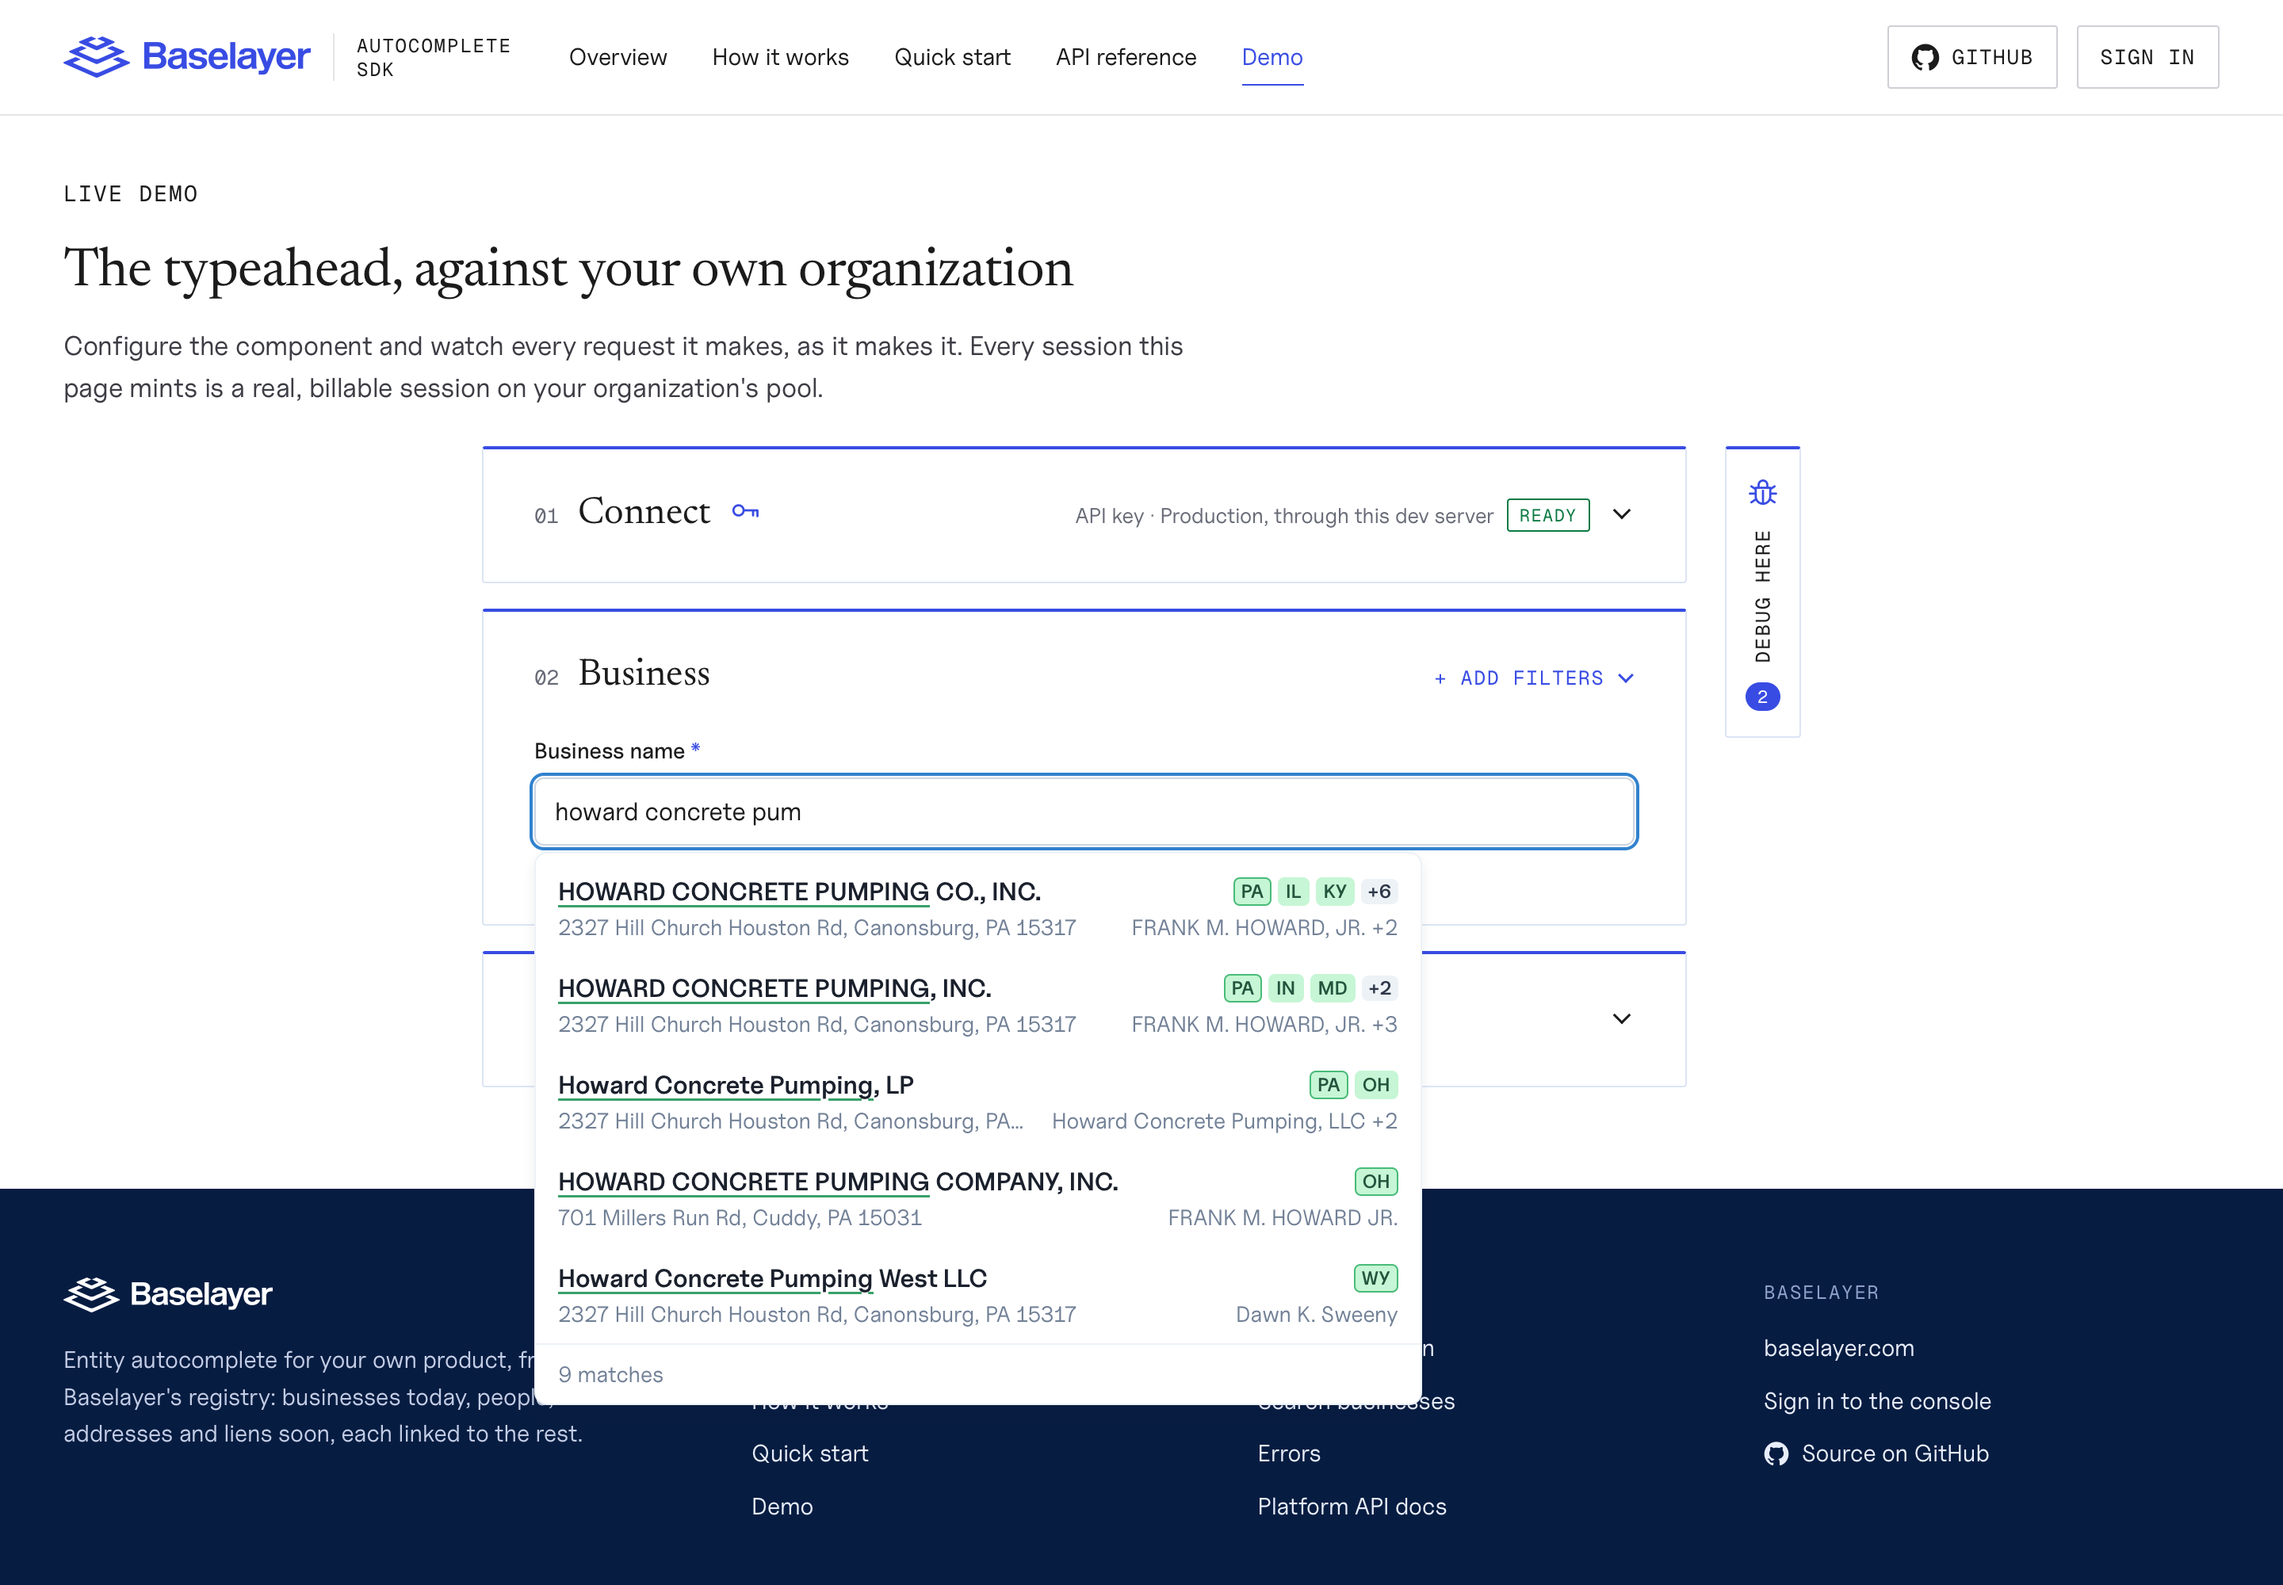
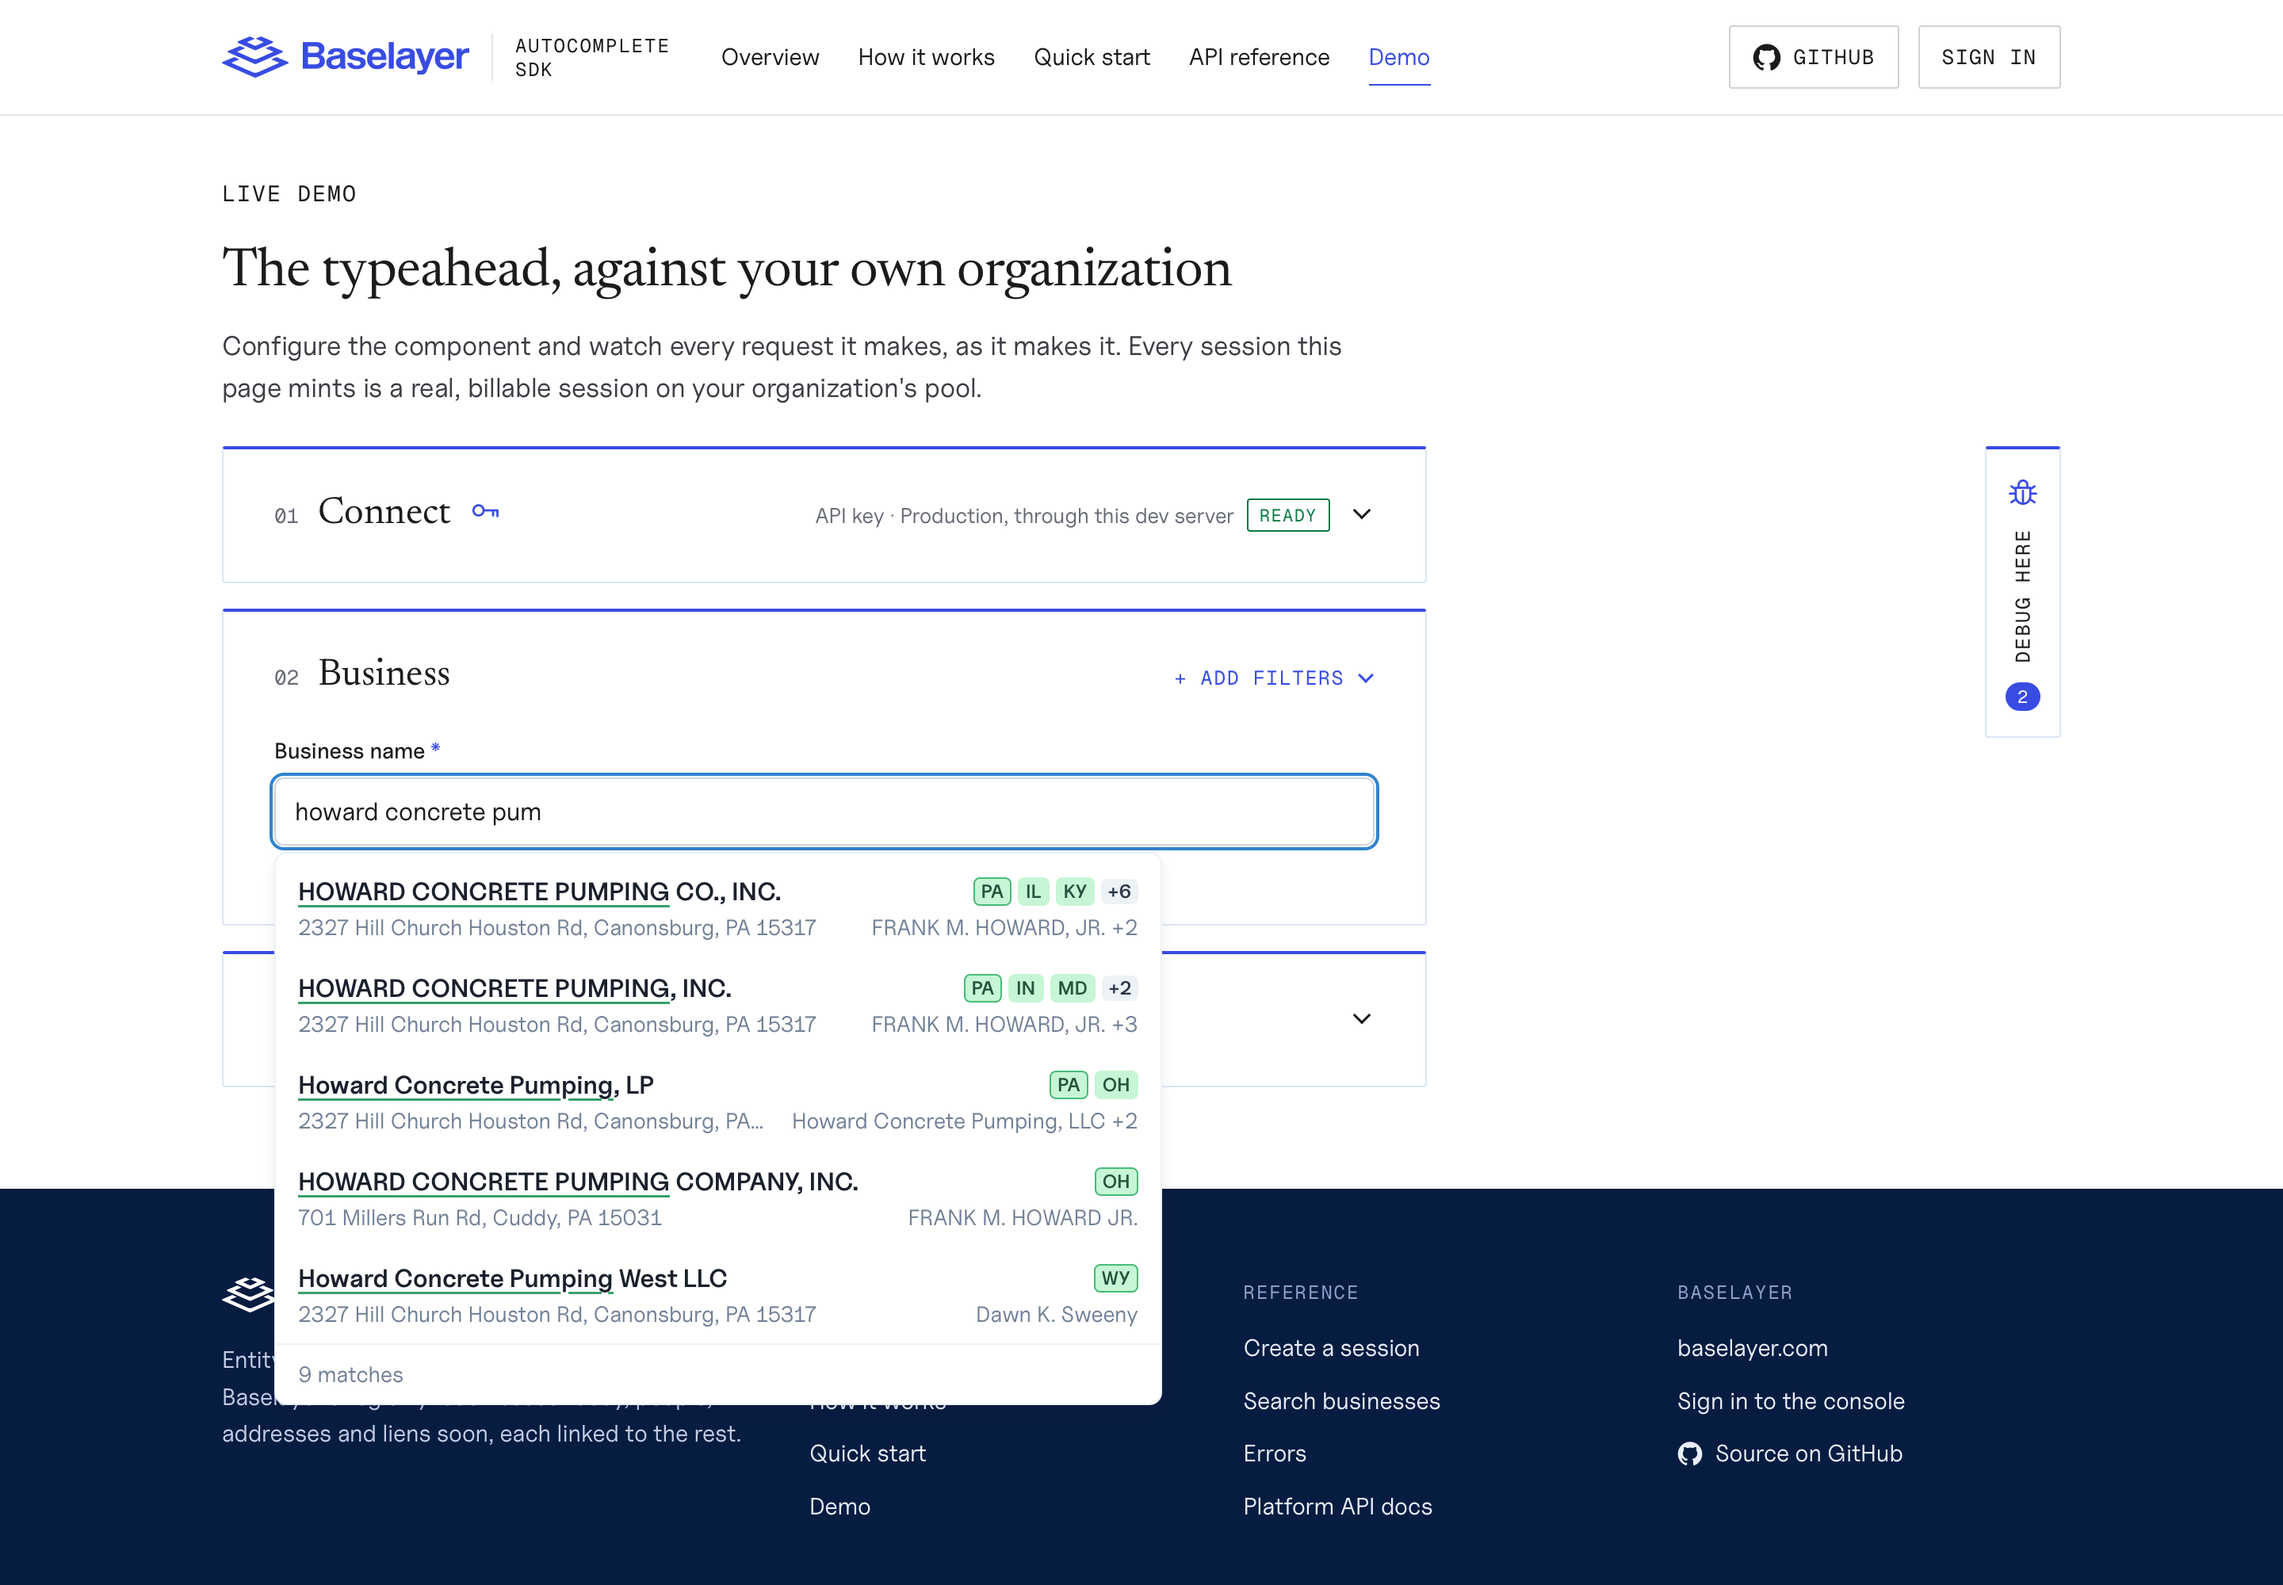
Refresh the demo docs and screenshots for the narrow layout
The demo's six screenshots are retaken against production with the page as narrow as the site while Debug is folded, the folds' new spacing and the dot on the bug; the site's three are retaken for the tighter header. The demo guide says the page widens below the header only when the panel opens, that the check's result waits inside the folded Connect section, and where the dot sits.

diff --git a/docs/demo.md b/docs/demo.md
@@ -28,9 +28,9 @@ Pick the environment, then one of two ways in, and press **Apply**. The
 button stays grey until there is something to apply. Apply tests what you
 gave it before the demo uses it, and says what the API answered: a refused
 key, a token bound to another page, an expired one. Once it passes, Connect
-folds away to one line that says how you are connected; open it again to
-change anything. Run locally, the page starts on **Production, through this
-dev server**.
+folds away to one line that says how you are connected, and the result
+waits inside; open it again to change anything. Run locally, the page starts
+on **Production, through this dev server**.
 
 **A session token (recommended).** Mint a session from your terminal, bound
 to the demo's origin, and paste the token. Your API key never reaches the
@@ -122,9 +122,10 @@ set.
 The debug panel folds to a tab on the right edge, reading **Debug here** up
 its spine, with the number of requests so far. When a request is refused or
 fails, or the SDK logs an error, while it is folded, a red dot pulses on the
-tab until you open it. Opened, the panel takes the right half of the page;
-its bar folds it back. On a narrow screen the tab is a bar under the
-controls, and the panel opens below them.
+tab's bug until you open it. Folded, the page is as wide as the site's other
+pages; opened, everything below the header widens and the panel takes its
+right half. Its bar folds it back. On a narrow screen the tab is a bar under
+the controls, and the panel opens below them.
 
 ![The demo with its debug panel folded](images/demo-folded.png)
 
